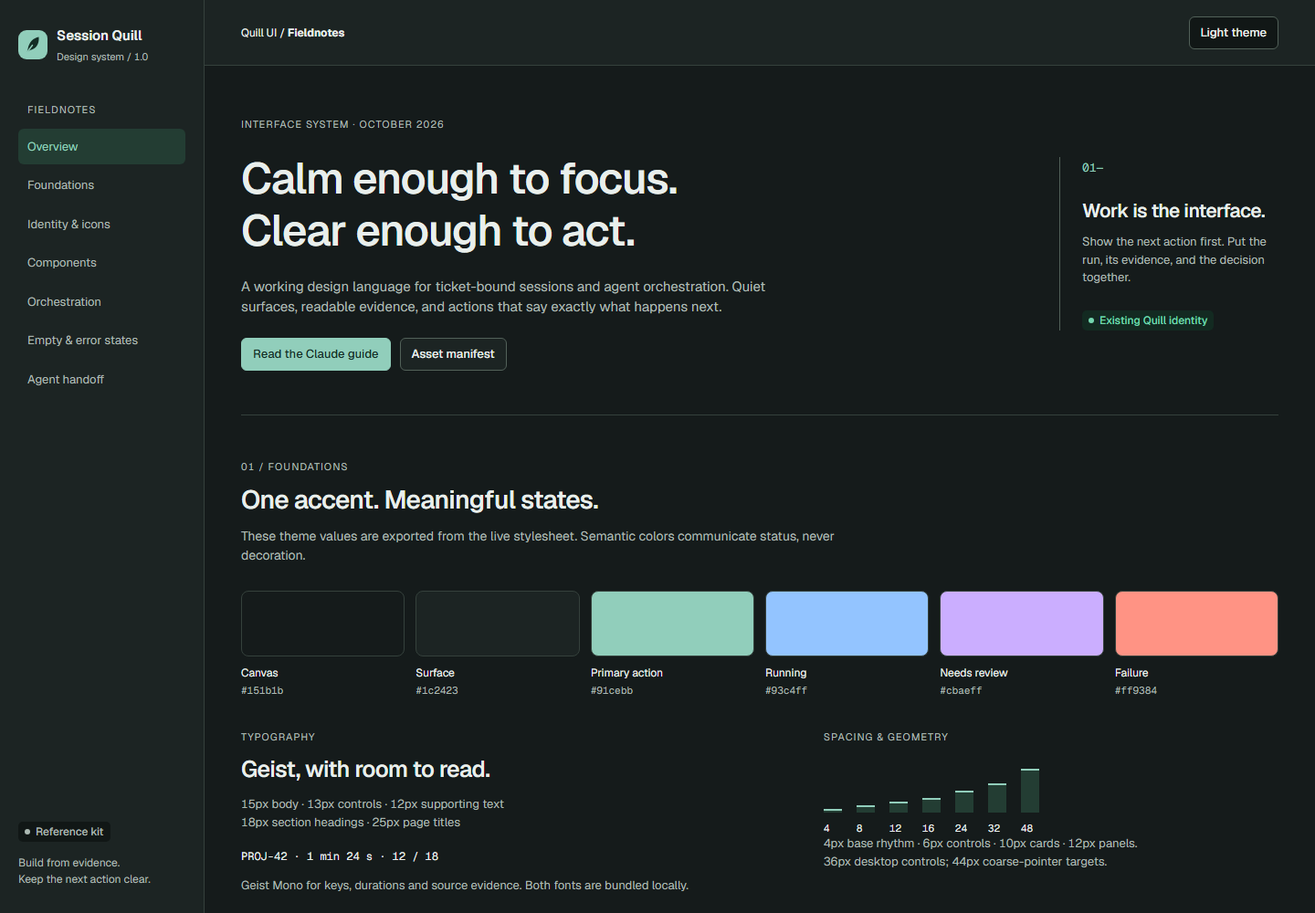
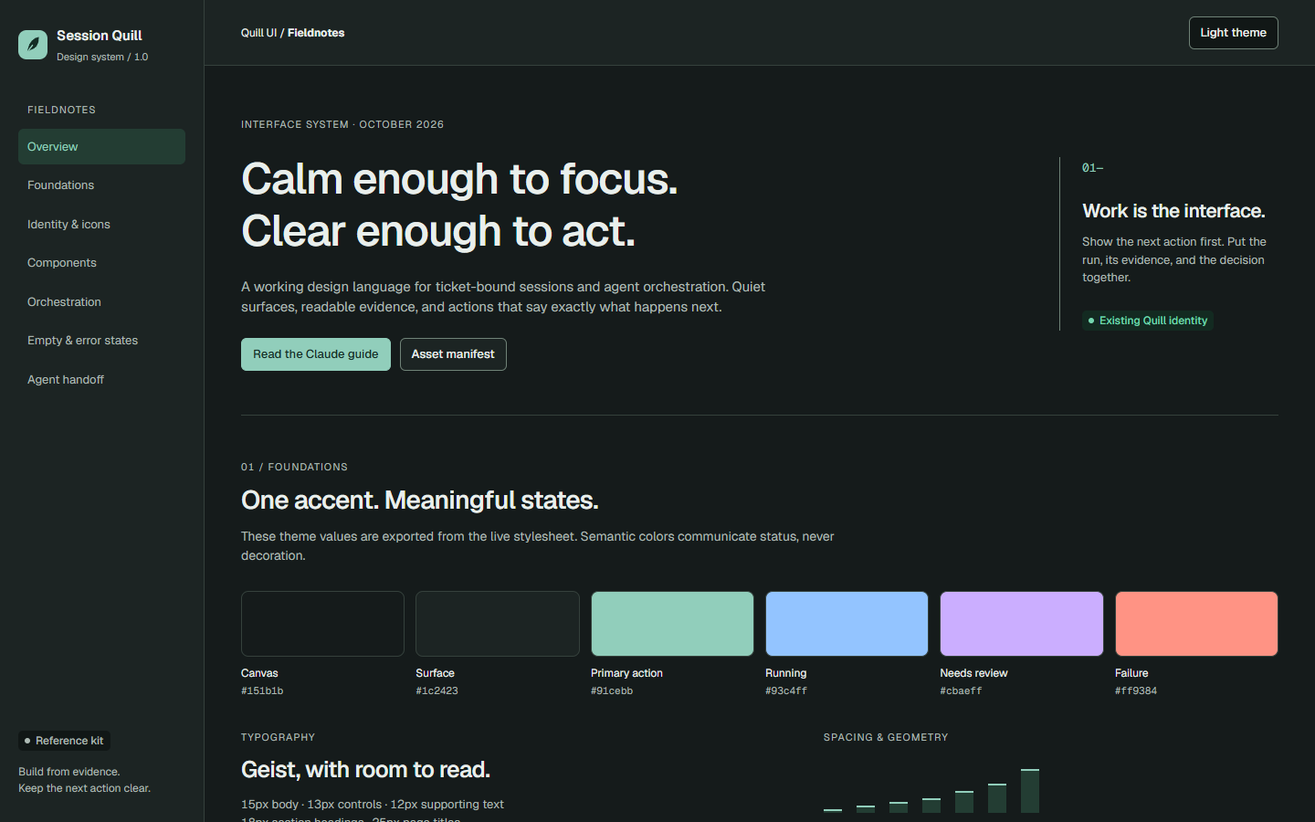
docs(design): describe the shipped runs-first dashboard in Fieldnotes
The Runs page, run detail, ticket Runs tab, Run agent dialog, grouped
navigation, status popover and toasts are now part of the contract;
example copy states only what the worker records.

diff --git a/docs/design-system/index.html b/docs/design-system/index.html
@@ -10,7 +10,7 @@
 <section id="foundations"><div class="section-heading"><p class="eyebrow">01 / Foundations</p><h2>One accent. Meaningful states.</h2><p>These theme values are exported from the live stylesheet. Semantic colors communicate status, never decoration.</p></div><div id="swatches" class="swatches"></div><div class="foundation-bottom"><div><p class="eyebrow">Typography</p><h3 class="type-sample">Geist, with room to read.</h3><p>15px body · 13px controls · 12px supporting text<br>18px section headings · 25px page titles</p><code class="mono-sample">PROJ-42 · 1 min 24 s · 12 / 18</code><p class="q-caption">Geist Mono for keys, durations and source evidence. Both fonts are bundled locally.</p></div><div><p class="eyebrow">Spacing & geometry</p><div class="spacing" id="spacing"></div><p class="q-caption">4px base rhythm · 6px controls · 10px cards · 12px panels.<br>36px desktop controls; 44px coarse-pointer targets.</p></div></div></section>
 <section id="identity"><div class="section-heading"><p class="eyebrow">02 / Identity & iconography</p><h2>A familiar mark. A consistent line.</h2><p>Preserve the existing Quill feather. Icons use the current 16px grid and 1.5px stroke; eight additions support orchestration.</p></div><div class="brand-samples"><div class="brand-light"><img src="../../ui/assets/brand/quill-mark-light.svg" alt="Quill mark for light surfaces"><span>Session Quill</span></div><div class="brand-dark"><img src="../../ui/assets/brand/quill-mark-dark.svg" alt="Quill mark for dark surfaces"><span>Session Quill</span></div><div class="brand-mono"><img src="../../ui/assets/brand/quill-mark-mono.svg" alt="Monochrome Quill mark"><span>Single-color mark</span></div></div><div class="icon-toolbar"><label class="q-field" for="icon-search">Find an icon<input class="q-input" id="icon-search" type="search" placeholder="Search icons: queue, tests, approve…"></label><p class="q-caption">Select an icon to copy its SVG markup.</p></div><div id="icons" class="icon-grid"></div><p id="icon-empty" hidden>No matching icons. Try a shorter name.</p></section>
 <section id="components"><div class="section-heading"><p class="eyebrow">03 / Components</p><h2>Small parts, explicit behavior.</h2><p>Opt-in <code>q-*</code> styles for new UI. Existing dashboard classes remain unchanged.</p></div><div class="component-grid"><article class="specimen"><h3>Action hierarchy</h3><div class="row"><button class="q-button q-button--primary" data-demo="Primary action specimen" type="button">Queue run</button><button class="q-button" data-demo="Secondary action specimen" type="button">View evidence</button><button class="q-button q-button--quiet" data-demo="Quiet action specimen" type="button">Dismiss</button></div><div class="row"><button class="q-button q-button--danger" data-demo="Destructive action specimen; confirmation required in a real flow" type="button">Cancel run</button><button class="q-button" disabled>Waiting for worker</button></div><p class="q-caption">Specimens only. These buttons do not dispatch or cancel runs.</p></article><article class="specimen"><h3>Labelled status</h3><div class="row"><span class="q-chip">Queued</span><span class="q-chip" data-tone="active">Running</span><span class="q-chip" data-tone="review">Needs review</span><span class="q-chip" data-tone="good">Tests passed (worker)</span><span class="q-chip" data-tone="critical">Tests failed</span><span class="q-chip" data-tone="warning">Not test-verified</span></div><p class="q-caption">A green test result needs worker evidence. Run completion is not ticket completion.</p></article><article class="specimen"><h3>Form guidance</h3><label class="q-field" for="sample-command">Repository test command<input class="q-input" id="sample-command" value="npm test" aria-describedby="command-help"></label><p id="command-help" class="q-caption">Reference field only. Run in the isolated checkout; show the recorded result.</p><label class="q-field" for="sample-branch">Branch<input class="q-input" id="sample-branch" value="main" aria-invalid="true" aria-describedby="branch-error"></label><p id="branch-error" class="q-error">Choose a working branch. The default branch is protected.</p></article><article class="specimen"><h3>Evidence before decisions</h3><div class="q-next-action"><strong>Next action</strong>Inspect the retry fix and its worker test result.</div><p class="q-caption">State the concrete action. Keep the underlying record accessible when the preview is truncated.</p><div class="q-notice">Analysis complete. Two suggestions are waiting for your review.</div></article></div></section>
-<section id="orchestration"><div class="section-heading"><p class="eyebrow">04 / Orchestration pattern</p><h2>See the work through.</h2><p><strong>Proposed pattern, not a shipped Runs view.</strong> Example data below shows how queue reasons and evidence can sit beside the next decision.</p></div><div class="run-example q-panel"><div class="run-heading"><div><h3>Agent runs</h3><p class="q-caption">Example workspace · independent run and ticket states</p></div><span class="q-chip" data-tone="review">Reference pattern</span></div><div class="q-tabs" role="tablist" aria-label="Run examples"><button class="q-tab" role="tab" id="tab-running" aria-selected="true" aria-controls="panel-running" data-panel="running">Running <span>1</span></button><button class="q-tab" role="tab" id="tab-queued" aria-selected="false" aria-controls="panel-queued" tabindex="-1" data-panel="queued">Queued <span>1</span></button><button class="q-tab" role="tab" id="tab-review" aria-selected="false" aria-controls="panel-review" tabindex="-1" data-panel="review">Needs review <span>1</span></button></div><div role="tabpanel" id="panel-running" aria-labelledby="tab-running" class="run-panel"><div class="q-run-row"><div><code>PROJ-43 / attempt-fix</code><h4>Respect the payments retry budget</h4><p class="q-caption">Phase: worker tests · Agent 2 min 14 s · no result yet</p></div><span class="q-chip" data-tone="active">Running</span></div><div class="q-notice">Tests are running. Verification is pending.</div></div><div role="tabpanel" id="panel-queued" aria-labelledby="tab-queued" class="run-panel" hidden><div class="q-run-row"><div><code>PROJ-47 / attempt-fix</code><h4>Handle retry exhaustion</h4><p class="q-caption">Waiting for the payments repository · another fix holds the checkout slot</p></div><span class="q-chip">Queued</span></div><div class="q-notice">No ETA shown. Start time depends on the active run releasing capacity.</div></div><div role="tabpanel" id="panel-review" aria-labelledby="tab-review" class="run-panel" hidden><div class="q-run-row"><div><code>PROJ-42 / analyse</code><h4>Verify checkpoint recovery</h4><p class="q-caption">Completed · two proposed next steps · source evidence available</p></div><span class="q-chip" data-tone="review">Needs review</span></div><div class="q-notice">The run finished. Suggestions still need an owner decision.</div></div></div></section>
+<section id="orchestration"><div class="section-heading"><p class="eyebrow">04 / Orchestration pattern</p><h2>See the work through.</h2><p><strong>The shipped Runs page, with example data.</strong> Rows state only what the worker records: occupancy while queued, elapsed time while running, outcomes when finished.</p></div><div class="run-example q-panel"><div class="run-heading"><div><h3>Runs</h3><p class="q-caption">Example workspace · independent run and ticket states</p></div><span class="q-chip" data-tone="review">Example data</span></div><div class="q-tabs" role="tablist" aria-label="Run examples"><button class="q-tab" role="tab" id="tab-needs" aria-selected="true" aria-controls="panel-needs" data-panel="needs">Needs you <span>1</span></button><button class="q-tab" role="tab" id="tab-live" aria-selected="false" aria-controls="panel-live" tabindex="-1" data-panel="live">Live <span>2</span></button><button class="q-tab" role="tab" id="tab-failed" aria-selected="false" aria-controls="panel-failed" tabindex="-1" data-panel="failed">Failed <span>1</span></button></div><div role="tabpanel" id="panel-needs" aria-labelledby="tab-needs" class="run-panel"><div class="q-run-row"><div><code>PROJ-42 / analyse</code><h4>Verify checkpoint recovery</h4><p class="q-caption">2 suggestions to review · Read-only</p></div><span class="q-chip" data-tone="review">Done</span></div><div class="q-notice">The run finished. Suggestions still need an owner decision.</div></div><div role="tabpanel" id="panel-live" aria-labelledby="tab-live" class="run-panel" hidden><div class="q-run-row"><div><code>PROJ-43 / attempt-fix</code><h4>Respect the payments retry budget</h4><p class="q-caption">Running for 2 min · setup 4 s · Edits source</p></div><span class="q-chip" data-tone="active">Running</span></div><div class="q-run-row"><div><code>PROJ-47 / attempt-fix</code><h4>Handle retry exhaustion</h4><p class="q-caption">Queued · fix slots 1/1 in use · repository busy</p></div><span class="q-chip">Queued</span></div><div class="q-notice">No ETA shown. Start time depends on the active run releasing capacity.</div></div><div role="tabpanel" id="panel-failed" aria-labelledby="tab-failed" class="run-panel" hidden><div class="q-run-row"><div><code>PROJ-51 / attempt-fix</code><h4>Cap the webhook backoff</h4><p class="q-caption">Tests failed · Retried as a new run</p></div><span class="q-chip" data-tone="critical">Failed</span></div><div class="q-notice">A later run superseded this one, so it no longer needs you.</div></div></div></section>
 <section id="states"><div class="section-heading"><p class="eyebrow">05 / Empty & error states</p><h2>Always explain the next step.</h2><p>Small, transparent SVG illustrations. Use one per empty region, with a real explanation and relevant action.</p></div><div class="empty-grid"><article class="q-empty q-panel"><img src="../../ui/assets/illustrations/empty-queue.svg" alt=""><h3>No runs queued</h3><p>Select a ticket and choose a recipe to prepare a run.</p><a class="q-button" href="#orchestration">View run pattern</a></article><article class="q-empty q-panel"><img src="../../ui/assets/illustrations/no-results.svg" alt=""><h3>No matching work</h3><p>Broaden the project or status filter to see more results.</p></article><article class="q-empty q-panel"><img src="../../ui/assets/illustrations/review-ready.svg" alt=""><h3>Review complete</h3><p>No suggestions are waiting for an owner decision.</p></article><article class="q-empty q-panel"><img src="../../ui/assets/illustrations/worker-offline.svg" alt=""><h3>Worker offline</h3><p>Showing the last snapshot. Changes cannot be queued until the connection returns.</p></article></div></section>
 <section id="handoff" class="handoff"><p class="eyebrow">06 / Agent handoff</p><h2>Use the system. Preserve the behavior.</h2><p>Start with the Claude guide, reuse existing renderers, and verify the full workflow. A visual state is a promise about the underlying record.</p><div class="links"><a class="q-button q-button--primary" href="CLAUDE-DESIGN-SYSTEM.md">Implementation contract</a><a class="q-button" href="../../ui/assets/README.md">Asset usage</a><a class="q-button" href="../AGENT-HANDOVER-ORCHESTRATION-1.0.md">Known gaps</a></div></section>
 <footer>Quill Fieldnotes · SVG assets under the repository MIT license · Geist under SIL OFL</footer>

diff --git a/docs/design-system/CLAUDE-DESIGN-SYSTEM.md b/docs/design-system/CLAUDE-DESIGN-SYSTEM.md
@@ -25,7 +25,7 @@ Preserve the existing green/Geist identity. Use neutral surfaces, one primary ev
 | `ui/styles.css`, `ui/components.js`, current view renderers | Shipped implementation and theme/icon source values |
 | This document | Visual direction, component usage and implementation guidance |
 | `ui/assets/tokens.json` and `tokens.css` | Generated theme snapshot plus additive reference primitives |
-| `docs/design-system/index.html` | Inspectable component examples and proposed orchestration patterns |
+| `docs/design-system/index.html` | Inspectable component examples and the Runs page with example data |
 | `docs/AGENT-HANDOVER-ORCHESTRATION-1.0.md` | Known defects, scope gaps and prior validation limits |
 
 `docs/UI-DESIGN.md` is an older behavioral specification. Its “inbox first”, Today/Tree labels and prior visual layouts are superseded by the current UI. Historical `docs/ui/graphite_ink` and `terminal_slate` directions must not be blended into Fieldnotes.
@@ -47,6 +47,10 @@ Use semantic variables, never copy colors into new components. The generator ext
 | Primary foreground | `--accent-fg` | `#ffffff` | `#142e26` |
 | Accent region | `--accent-soft` | `#e7f0e9` | `#233d33` |
 | Focus indicator | `--focus` | `#23634f` | `#91cebb` |
+| Faint text | `--text-faint` | `#627169` | `#8a9992` |
+| Control boundary | `--border-strong` | `#7f8f86` | `#6f8277` |
+
+Form controls (inputs, selects, textareas) draw their boundary with `--border-strong`, which meets 3:1 against `--bg` and `--surface` in both themes; `tests/ui/tokens.test.js` enforces it.
 
 Use `--border` for separation and `--border-strong` for actionable boundaries. Text and outline colors have different roles; a separator is not necessarily a sufficient control boundary. Avoid lowering opacity on essential text. Validate contrast on the actual background; theme token checks do not certify every component combination.
 
@@ -77,6 +81,7 @@ Use `ui/assets/manifest.json` to discover assets. See the adjacent README for ex
 - **Brand:** light, dark and monochrome marks derived from the existing Quill feather. Use the real bundled Geist text for wordmarks; do not add raster text assets.
 - **Icons:** existing glyphs exported from `ui/components.js`, plus matching orchestration extensions: runs, queue, approve, diff, tests, lock, expand and collapse.
 - **Illustrations:** empty queue, no results, review complete and worker offline. Use sparingly, generally 120–160px wide. Meaning lives in the accompanying text/action.
+  Production views do not reference `/ui/assets/…` images. Static exports inline the stylesheet and bundle the scripts and must not contain `src="/ui/` URLs (`tests/export/static.test.js`), so dashboard empty states are text with a next step. Use illustrations only on surfaces that are never exported, or inline the SVG.
 - **Tokens:** JSON map and standalone CSS. They are generated exports, not a second independently maintained theme.
 - **Components:** `ui/assets/components.css` provides opt-in `q-*` styles. The production dashboard does not load this file automatically.
 
@@ -91,7 +96,14 @@ For decorative SVGs use `aria-hidden="true"` or `<img alt="">`. For icon-only ac
 | Primary action | Verb + object, optional icon | One primary action per decision region; pending label and duplicate-submit protection |
 | Secondary action | Border or quiet treatment | Evidence/navigation actions should not compete with the primary decision |
 | Ticket card | Key, title, status, next action, relevant metadata | Keyboard activation, visible selection, full key copy; preserve independent inner actions |
-| Run row | Recipe, ticket, execution state, phase/wait reason, elapsed time, next decision | Queued, running, completed, failed, cancelled, timed out; loading/unknown must be explicit |
+| Run row | One `<button>` per run: state chip, ticket key (middle-ellipsised, full key in `title`) and title, recipe or mode, access badge (Read-only / Edits source / Changes files, plus Full access when granted), worker test-gate badge, one fact line, requested time | The fact line states only recorded facts: queued → "Queued" plus slot occupancy from `meta.handoff_limits`, and "repository busy" for a queued fix whose repository has a running fix; running → "Running for …" and "setup …" when measured; done → suggestions to review, files changed, draft PR; failed → the error plus "Retried as a new run" or "Superseded by a later run". Nothing interactive nests inside the row button |
+| Run strip | Under the ticket title: the current run (else the latest) with state, recipe, test-gate badge, suggestions to review and time; opens run detail | "No agent runs yet" with a Run agent button when there are none (owner only, ticket not done) |
+| Run detail | Header (state, recipe and source, mode, access, test gate, measured timings, batch, retry relationship); Result; Changes; Delivery (PR, branch, uncertain effects); Where it is (owner-only checkout path as text with copy, never a link); Suggestions; actions | Sections absent from the record or stripped by an export are omitted, never rendered empty; the PR is a link only for http(s) URLs, otherwise text; uncertain effects use warning styling, never success; "Retry as new run" is not offered once a later run superseded the failed one; a stale link shows "Run not found" |
+| Run agent dialog | Step 1 recipe cards (Reads only / Edits source marker, time cap); step 2 permissions with side effects under Advanced, a plain summary of what the run will do, prerequisite blockers and warnings | Queue is disabled while a blocker applies and says why; a missing test command is a warning ("Not test-verified"), not a pass |
+| Status button | One top-bar button: dot and short label (Updated …, provider errors, Offline, Needs attention, Read-only snapshot) opening a popover with connection, health and Refresh | Errors and offline colour the dot and label; offline with provider errors reads "Offline · N provider error(s)"; never hidden behind the popover |
+| Filter button | "Filter · n" opening a popover of the existing filters; active filters stay visible as removable tokens | Same hash parameters as before |
+| Navigation | Grouped Work (Pick next, Board, Runs) and Track (Activity, Sessions, Deployments, Relationships); phones show Pick next, Board, Runs, Activity and More | The Runs badge counts live runs; a separate attention dot means "needs you"; shortcuts 1–6 unchanged, 7 opens Runs. The Runs button's own `aria-label` carries the counts ("Runs, N live, K need(s) you") and the badge and dot are `aria-hidden`; other items read "<Label>, N items". The collapsed 72px rail keeps compact badges and the dot |
+| Top bar | Brand, search, status button, then actions (approvals, Schedules, Publish, Export, theme, help) | Stays one row at every width: below 900px action text labels are hidden, each action keeps an `aria-label`, and the approvals button shows icon plus count |
 | Status chip | Text + semantic color, optional dot/icon | Never communicate status with color alone; “Not test-verified” is not success |
 | Attention item | What needs attention, affected entity, action | Separate run failures, proposals, suggestions and blocked tickets; define count scope |
 | Evidence panel | Source, captured time, status, content preview, full content access | Loading, unavailable, fetch error, retry; fetched content must visibly render |
@@ -99,8 +111,8 @@ For decorative SVGs use `aria-hidden="true"` or `<img alt="">`. For icon-only ac
 | Tab group | Labelled tabs and associated panels | Selected state, arrow/Home/End keys, roving tabindex; hide inactive panel controls |
 | Drawer | Title, close, context, primary actions | Escape, focus placement/restoration; inert background and focus containment when modal |
 | Empty state | Short title, explanation, relevant next step | Distinguish no data, no matches, no permission and offline; do not display invented metrics |
-| Batch summary | Aggregate execution counts, member outcomes, link to detail | Durable after reload; cancellation scope must name queued versus running members |
-| Toast/receipt | Action and confirmed outcome | Supplement inline feedback; never imply queued work has completed |
+| Batch summary | Batch short id, recipe or "mixed", outcome counts across the whole batch, progress bar, "Cancel queued (n)" | Derived from run records, so it survives a reload; cancelling names only queued members and never claims running ones stopped |
+| Toast/receipt | Action and confirmed outcome, LIVE chip, dismiss | Neutral and good receipts clear after 6 s; critical receipts stay until dismissed; never imply queued work has completed |
 
 Prefer flat sections and separators. Use cards to group meaningful work units, not to enclose every label. Avoid nested cards within cards within cards.
 
@@ -117,22 +129,25 @@ These are separate concepts; do not merge their state machines:
 | Session | Live, idle, ended, extinct | Live activity is not proof that a process is running |
 | Deployment | Pending, recorded deployed, waived | Merged PR is not deployment |
 
-Use explicit copy:
+Examples the shipped UI produces:
 
-- “Queued. Waiting for the payments repository.”
-- “Tests passed (worker).”
-- “No test command. This fix is not test-verified.”
-- “Run finished. Two suggestions need review.”
-- “Worker offline. Showing the last snapshot.”
-- “Cancel 3 queued runs” when active runs are unaffected.
+- "Queued · read-only slots 2/2 in use" — occupancy, not a claimed cause.
+- "Queued · fix slots 1/1 in use · repository busy" — only for a queued fix.
+- "Running for 2 min · setup 4 s" — the worker records agent and test time only when a run finishes, so a running row never names a phase.
+- "Tests passed (worker)" / "Not test-verified" / "Tests failed".
+- "2 suggestions to review".
+- "Retried as a new run" / "Superseded by a later run".
+- "Cancel queued (3)" when running members are unaffected.
+
+A row or chip states only what the snapshot records. When the worker starts projecting live phases or wait reasons, add them here first, then to the UI.
 
 Avoid “All good”, “Success!” or “Completed” without an entity. Show measured durations; never fabricate progress percentages or ETAs for unknown agent work.
 
 ## 7. Orchestration information architecture
 
-**Shipped:** Pick next, Board, Relationships, Sessions, Deployments, Activity; ticket Overview/Activity/Delivery tabs. Internal route names `tree` and `today` remain for compatibility.
+**Shipped:** Pick next, Board, Runs, Activity, Sessions, Deployments, Relationships. Runs (`#view=runs`, shortcut 7) has Needs you, Live, Failed and All tabs (`tab=`), rows grouped by batch, and run detail in the side panel (`run=`). Needs you holds open proposals, finished runs with suggestions to decide, and failed or timed-out runs from the last 7 days on open tickets that no later run superseded; cancelled runs never need you; exports have no Needs you. Ticket detail has Overview, Runs, Activity and Delivery tabs (`section=`) and a run strip under the title. Proposed runs live in Runs → Needs you and the ticket's Runs tab; Activity is history only. Internal route names `tree` and `today` remain.
 
-**Proposed:** a global Runs surface and an explicit ticket Runs section. The reference page's Agent runs specimen is an example with static data. It does not add routes, backend phases, capacity projections or result viewers to the app.
+**Not yet built:** worker-projected phases and wait reasons, readiness checks the snapshot cannot answer, prewarmed worktrees, nested run groups.
 
 Recommended Runs workflow:
 
@@ -158,6 +173,7 @@ Repository bindings belong to the checkpoint/event that recorded them. A session
 - Use live regions for meaningful request/run transitions; provide persistent inline failure details.
 - Use 160–200ms feedback and 200–300ms user-triggered transitions. Animate opacity/transform only where useful; respect reduced motion.
 - Never animate every polling update. Skeletons are for unresolved loading, not a substitute for an error or empty state.
+- Runs rows and the run detail panel must fit 390px with no document overflow (the runs-first browser check asserts it).
 - Test text zoom, long titles/keys, keyboard-only interaction, disabled controls and real touch target dimensions.
 
 ## 9. Implementation rules
@@ -177,6 +193,7 @@ Repository bindings belong to the checkpoint/event that recorded them. A session
 
 - Confirm scope: production change, design reference, or proposed feature.
 - Run `node scripts/build-ui-assets.mjs --check` for generated-asset drift.
+- Run `node scripts/build-ui-assets.mjs --check` after any `ui/styles.css` token change; regenerate with `node scripts/build-ui-assets.mjs` when it reports drift.
 - Run `node --test "tests/ui/*.test.js" "tests/export/*.test.js"` after interface changes.
 - Add behavior tests for new state transitions or evidence/ownership fixes; avoid tests that only mirror trivial style declarations.
 - Browser-check light/dark, mobile/desktop, keyboard, long data, loading, error, empty, offline and read-only states relevant to the change.

diff --git a/CLAUDE.md b/CLAUDE.md
@@ -8,6 +8,6 @@ Use `docs/design-system/index.html` as the visual reference and `ui/assets/READM
 
 Before editing, inspect the working tree and relevant existing renderers/tests. Preserve unrelated changes. Use the existing Node ES modules and CSS stack. Production behavior and safety contracts are defined in the data contract and orchestration ADRs; a visual specimen does not authorize a backend behavior change.
 
-For the current implementation state and known defects, read `docs/AGENT-HANDOVER-ORCHESTRATION-1.0.md`. Recommendations in that document are not implemented features. Do not claim to have implemented a Runs workspace merely by adding assets or a reference-page example.
+For the current implementation state and known defects, read `docs/AGENT-HANDOVER-ORCHESTRATION-1.0.md`. Recommendations in that document are not implemented features. The Runs page, run detail, ticket Runs tab and Run agent dialog are shipped; their contract is §5–§7 of the design system. Asset or specimen changes alone do not change that behaviour.
 
 After asset-source changes, run `node scripts/build-ui-assets.mjs`, then `node scripts/build-ui-assets.mjs --check`. For interface changes, run the relevant UI/export tests and browser checks documented in the design system. Use an isolated dev-seed store for demos.

diff --git a/docs/AGENT-HANDOVER-ORCHESTRATION-1.0.md b/docs/AGENT-HANDOVER-ORCHESTRATION-1.0.md
@@ -1,5 +1,21 @@
 # Agent handover: Quill UI and orchestration-first 1.0
 
+## Status (runs-first dashboard)
+
+The sections below are the original handover and are kept as written. The `feat/runs-first-dashboard` branch resolved these items:
+
+- P1 full results: run detail offers the full result, or the partial result of an unfinished run.
+- P1 Sessions checkpoint link: resolved on this branch.
+- P2 batch history after reload: batch summaries are derived from run records.
+- The Runs surface: Needs you, Live, Failed and All tabs, rows grouped by batch.
+- Run detail evidence: result, changes, delivery, uncertain effects and suggestions in one panel.
+- Ticket run discovery: a run strip under the title and a ticket Runs tab.
+- Dispatch consolidation: one Run agent dialog for every recipe.
+- Attention dot: Runs shows a separate "needs you" dot beside the live count.
+- Mobile navigation: grouped Work and Track navigation, with five phone items and More.
+
+Still open: authoritative wait reasons and phases, worker readiness projections, and filter-scope labelling beyond the approvals button.
+
 Prepared 11 October 2026 (Asia/Calcutta).
 
 ## Start here

diff --git a/DESIGN.md b/DESIGN.md
@@ -11,7 +11,7 @@ The design system for Quill's ticket and agent-orchestration UI.
 
 Preserve the evergreen/Geist identity implemented in `ui/styles.css`. Historical Graphite Ink and Terminal Slate boards in `docs/ui/` are archived references, not the current visual direction. The older `docs/UI-DESIGN.md` remains useful for behavior contracts; its superseded layout descriptions must be read alongside the current design contract.
 
-The reference kit is opt-in. It does not change dashboard styles or create a production Runs view.
+The reference kit is opt-in; the production dashboard keeps its own stylesheet. The Runs page and run detail are shipped (see §7 of the contract).
 
 ```sh
 node scripts/preview-design-system.mjs
